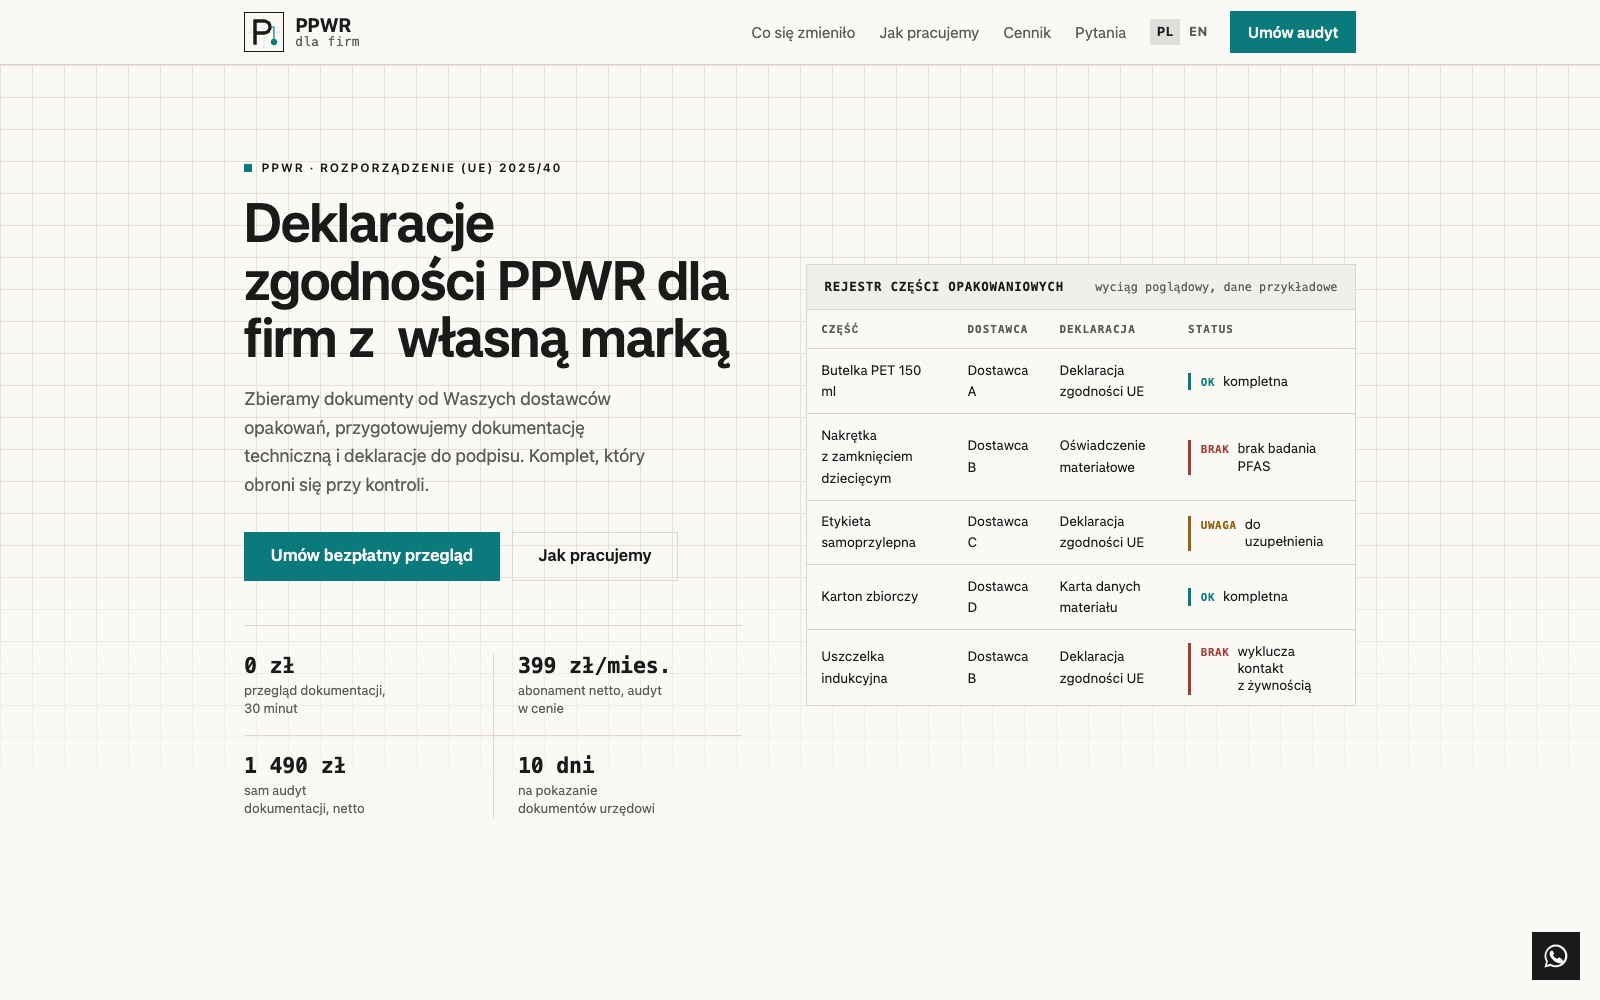
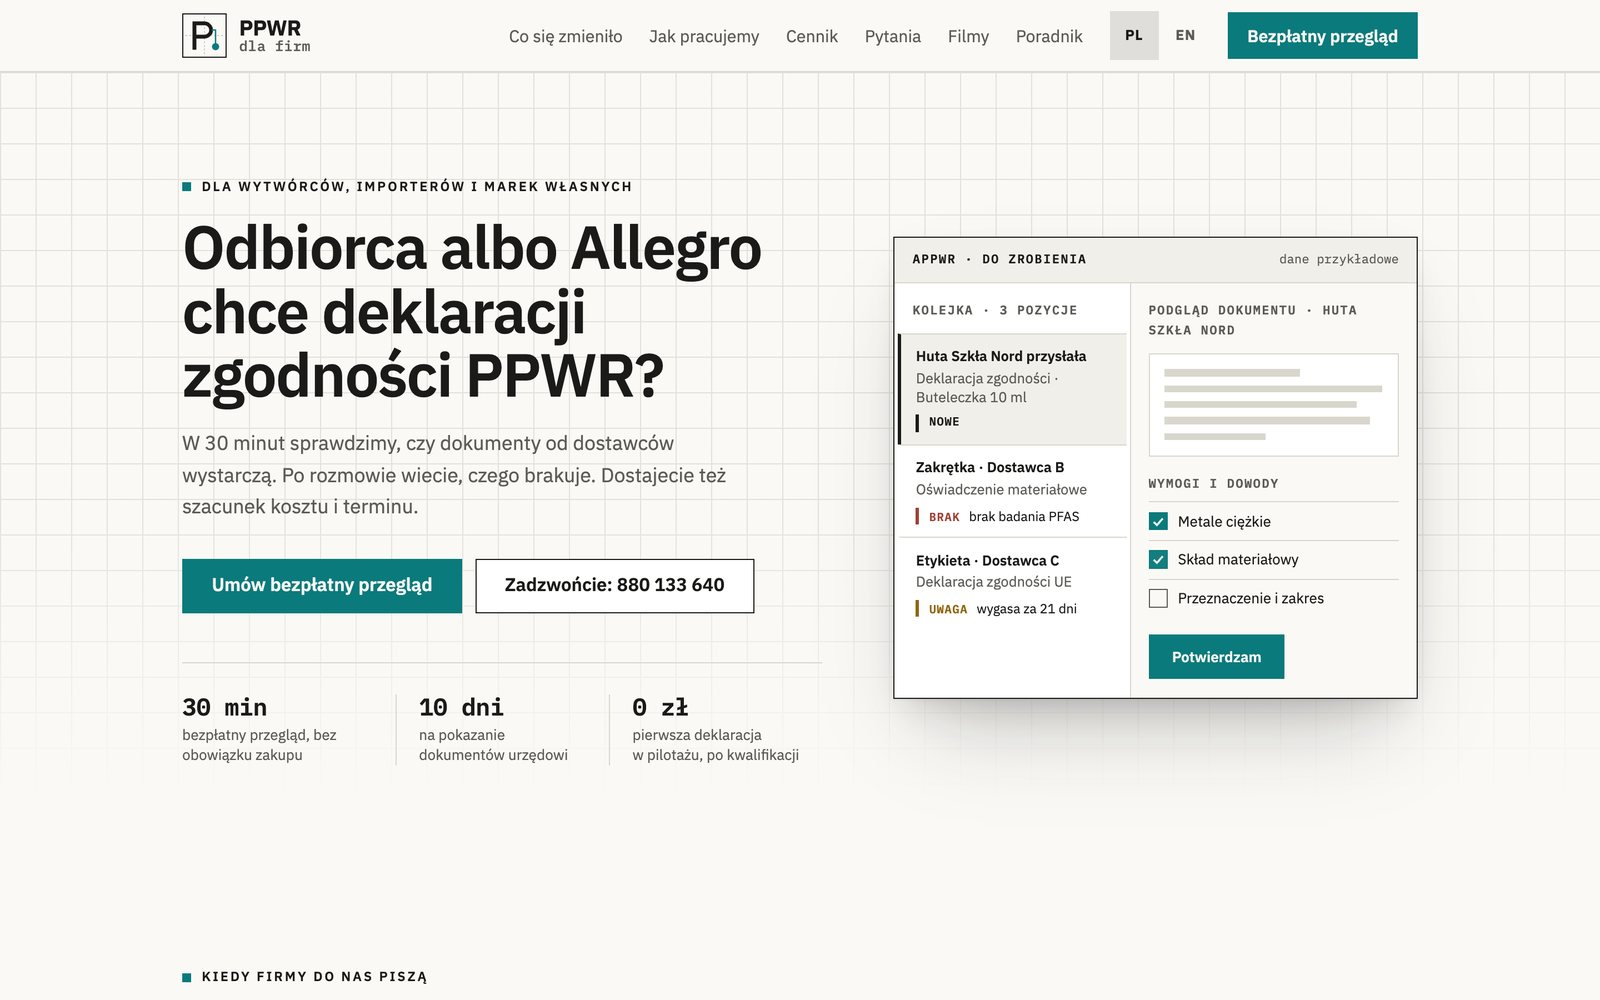
PPWR rozdzielone: strona ppwrdlafirm.pl i aplikacja aPPWR jako osobne realizacje; aktualny cennik i świeże zrzuty; Odpiszemy zamiast Odpiszę

diff --git a/src/lib/glowna-tresc.ts b/src/lib/glowna-tresc.ts
@@ -36,8 +36,8 @@ export const REALIZACJE: Realizacja[] = [
   { kategoria: 'uslugi', nazwa: 'M-DENTAL', obraz: '/images/glowna/realizacje/mdental.webp', href: null, opis: 'Przychodnia stomatologiczna, Warszawa' },
   { kategoria: 'firmy', nazwa: 'BEC Podcast', obraz: '/images/glowna/realizacje/bec.webp', href: null, opis: 'Podcast firmowy, klub i panel redakcyjny' },
   { kategoria: 'firmy', nazwa: 'Innova Biological', obraz: '/images/glowna/realizacje/innova.webp', href: 'https://innova-biological.pages.dev', opis: 'Strona B2B marki chemicznej' },
-  { kategoria: 'firmy', nazwa: 'aPPWR', obraz: '/images/glowna/realizacje/appwr.webp', href: 'https://ppwrdlafirm.pl/film/', opis: 'Aplikacja SaaS: deklaracje zgodności opakowań (filmy z działania)' },
-  { kategoria: 'firmy', nazwa: 'PPWR dla firm', obraz: '/images/glowna/realizacje/ppwrdlafirm.webp', href: '/realizacje/ppwr-dla-firm/', opis: 'Strona produktu: PPWR wyjaśnione na przykładach' },
+  { kategoria: 'firmy', nazwa: 'aPPWR', obraz: '/images/glowna/realizacje/appwr.webp', href: '/realizacje/appwr/', opis: 'Aplikacja: deklaracje zgodności opakowań' },
+  { kategoria: 'firmy', nazwa: 'PPWR dla firm', obraz: '/images/glowna/realizacje/ppwrdlafirm.webp', href: '/realizacje/ppwr-dla-firm/', opis: 'Strona: obowiązek PPWR wyjaśniony na przykładach' },
   { kategoria: 'firmy', nazwa: 'moje-rodo', obraz: '/images/glowna/realizacje/moje-rodo.webp', href: '/realizacje/moje-rodo/', opis: 'System zgodności RODO dla medycyny' },
   { kategoria: 'firmy', nazwa: 'Rejestr badania', obraz: '/images/realizacje/rejestr-badania.jpg', href: '/realizacje/rejestr-badania-klinicznego/', opis: 'Aplikacja do badania klinicznego' },
   { kategoria: 'kultura', nazwa: 'Siggy Davis', obraz: '/images/glowna/realizacje/siggi.webp', href: null, opis: 'Wokalistka jazz i soul, Berlin' },

diff --git a/src/pages/sitemap.xml.ts b/src/pages/sitemap.xml.ts
@@ -27,6 +27,7 @@ const PAGES = [
   'realizacje/strona-wokalistki-iwona-wegrowska',
   'realizacje/moje-rodo',
   'realizacje/ppwr-dla-firm',
+  'realizacje/appwr',
   'realizacje/uklad-komediowy',
   'realizacje/krzysztof-stanio',
   'realizacje/dzwiek-dobry',
